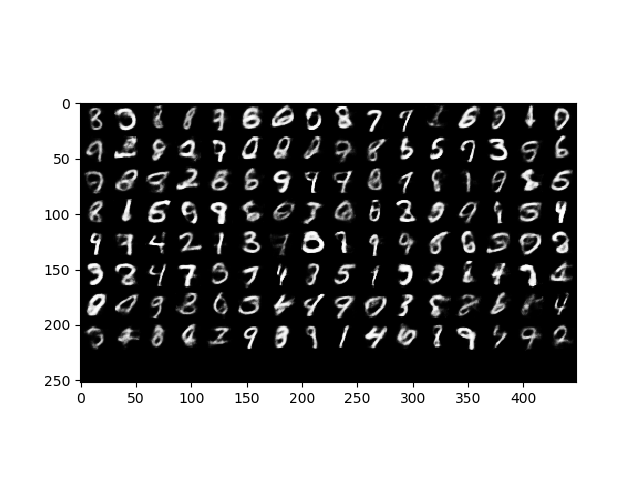
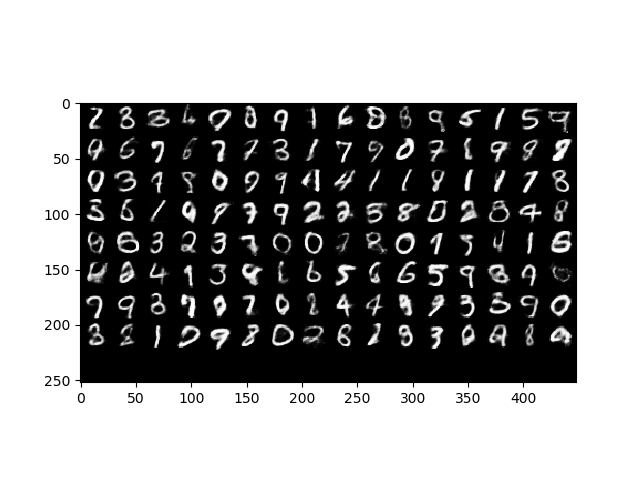
figs with 50 epochs

Changed region(s): [[0.125, 0.2188, 0.9062, 0.75]]

diff --git a/VAE/model.py b/VAE/model.py
@@ -343,7 +343,7 @@ if __name__ == '__main__':
     vae = VAE()
 
     # train and save the model
-    #vae.train(trainX, testX, n_epoch=10)
+    #vae.train(trainX, testX, n_epoch=50)
     #vae.save('./VAE/saved_models/model.tfl')
 
     # load the model
@@ -371,7 +371,7 @@ if __name__ == '__main__':
     # build the model
     vae2d = VAE(reduced_dim=2)
 
-    #vae2d.train(trainX, testX, n_epoch=10)
+    #vae2d.train(trainX, testX, n_epoch=50)
     #vae2d.save('./VAE/saved_models/model2d.tfl')
     
     # load the model
